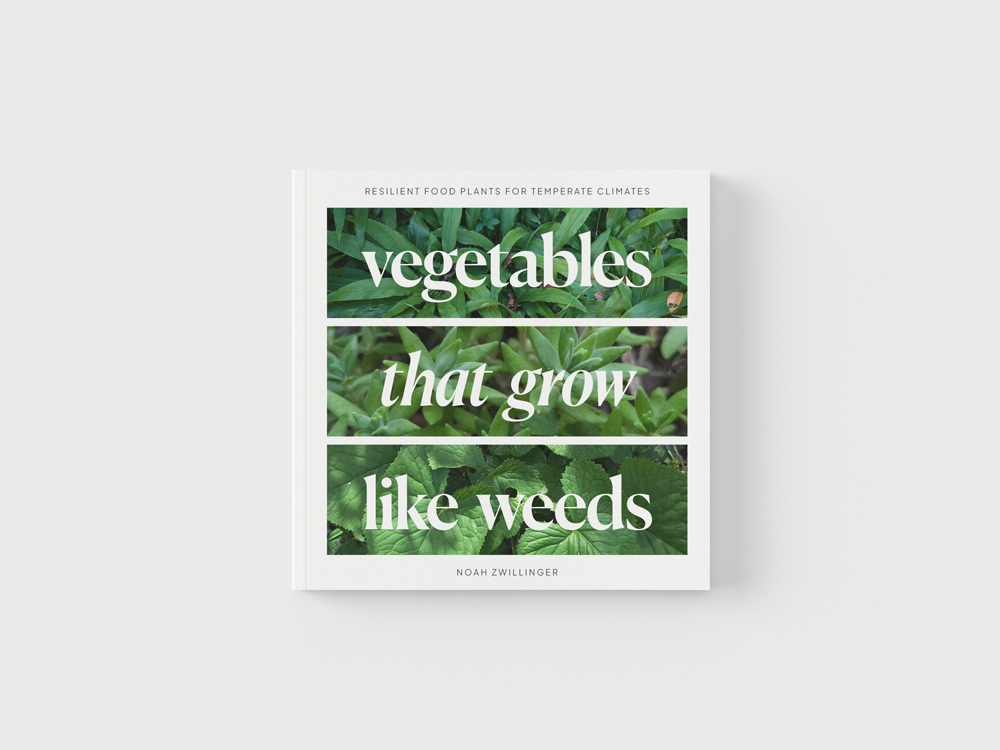
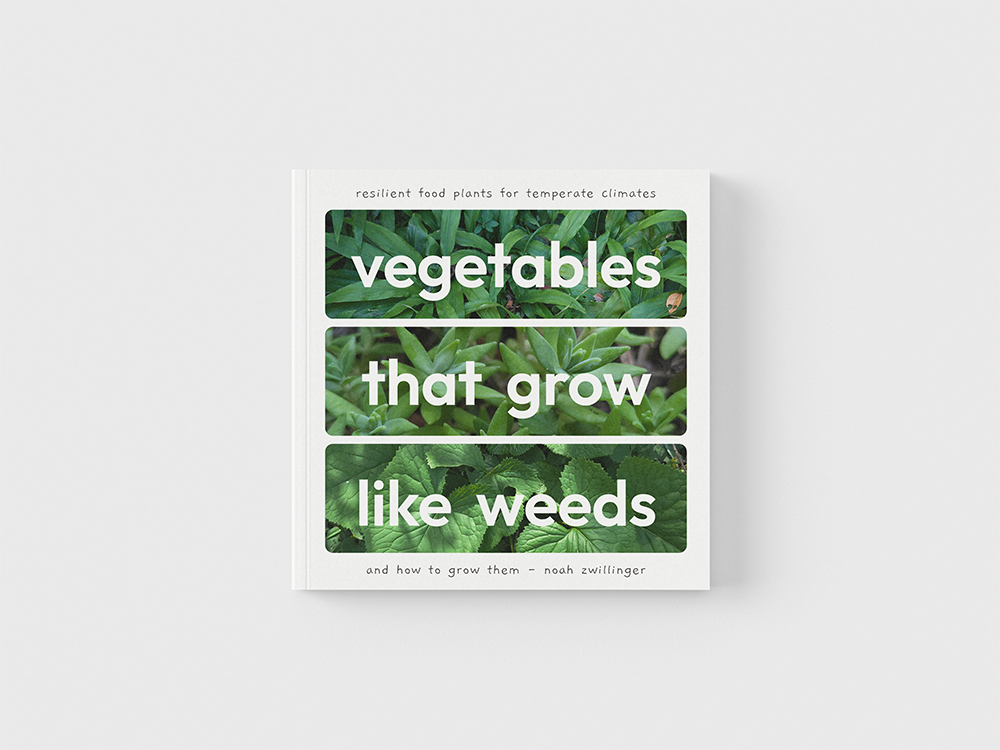
s

Changed region(s): [[0.31, 0.2453, 0.713, 0.7667], [0.682, 0.7053, 0.713, 0.736]]

diff --git a/index.html b/index.html
@@ -57,6 +57,18 @@
   <div class="boxed">
 
     <!-- Project start -->
+
+    <img src="./assets/img/portfolio/cover.png" alt="Slide alt text" />
+    <h2>Vegetables That Grow Like Weeds</h2>
+    <p>What does the garden of the future look like? A book about resiliant food plants from around the world and the methods I use to grow them without any external input.</p>
+    <!--<blockquote><p>Status: pre-publication.</p></blockquote>-->   
+    <p><a class="cta-project" title="Coming Soon">Coming Soon</a></p>
+     <!--<blockquote><p>Status: pre-publication.</p></blockquote>-->   
+    <hr />
+    
+
+    <!-- Project start -->
+    <!--
     <div class="slider-group">
       <div class="siema-wrapper"> 
         <div class="siema" data-slider="sphere-1">
@@ -72,24 +84,27 @@
     </div>
     <h2 class="slider-heading">Vegetables That Grow Like Weeds</h2>
     <p>What does the garden of the future look like? A book about resiliant food plants from around the world and the methods I use to grow them without any external input.</p>
-    <!--<blockquote><p>Status: pre-publication.</p></blockquote>-->   
     <p><a class="cta-project" title="Coming Soon">Coming Soon</a></p>
     <hr />
+    -->
 
     <!-- Project start -->
+    
     <img src="./assets/img/portfolio/farm4.jpg" alt="Slide alt text" />
     <h2>Breathing Leaves Farm</h2>   
     <p>Native fruit, wild vegetables and uncommon food plants. Grown in a regenerative food forest and delivered directly to community residents. </p>
     <p><a href="https://drive.proton.me/urls/GVMMVGFC10#AXyNe8pJ5IUK" target="_blank" class="cta-project" title="Catalogue">Seasonal Produce <span class="arrow">→</span></a></p>
     <hr />
+    
 
      <!-- Project start -->
      <!--
     <div class="slider-group">
       <div class="siema-wrapper"> 
         <div class="siema" data-slider="sphere-1">
-          <div><img src="./assets/img/portfolio/farm4.jpg" alt="Slide alt text" /></div>
           <div><img src="./assets/img/portfolio/farm5.jpg" alt="Slide alt text" /></div>
+          <div><img src="./assets/img/portfolio/farm4.jpg" alt="Slide alt text" /></div>
+          <div><img src="./assets/img/portfolio/farm6.jpg" alt="Slide alt text" /></div>
         </div>   
       </div>
       <span class="slider-controls">
@@ -97,9 +112,9 @@
         <button class="next" aria-label="Next slide">Next</button> 
       </span> 
     </div>
-    <h2 class="slider-heading">Breathing Leaves Farm</h2>
-    <p>Native fruit, wild vegetables and uncommon crops from the other side of the planet. Grown in a regenerative food forest and delivered directly to community residents. </p>
-    <p><a href="https://drive.proton.me/urls/GVMMVGFC10#AXyNe8pJ5IUK" target="_blank" class="cta-project" title="Catalogue">Catalogue </a></p>
+    <h2 class="slider-heading">Breathing Leaves Farm</h2>   
+    <p>Native fruit, wild vegetables and uncommon food plants. Grown in a regenerative food forest and delivered directly to community residents. </p>
+    <p><a href="https://drive.proton.me/urls/GVMMVGFC10#AXyNe8pJ5IUK" target="_blank" class="cta-project" title="Catalogue">Seasonal Produce <span class="arrow">→</span></a></p>
    <hr />
     -->
 
